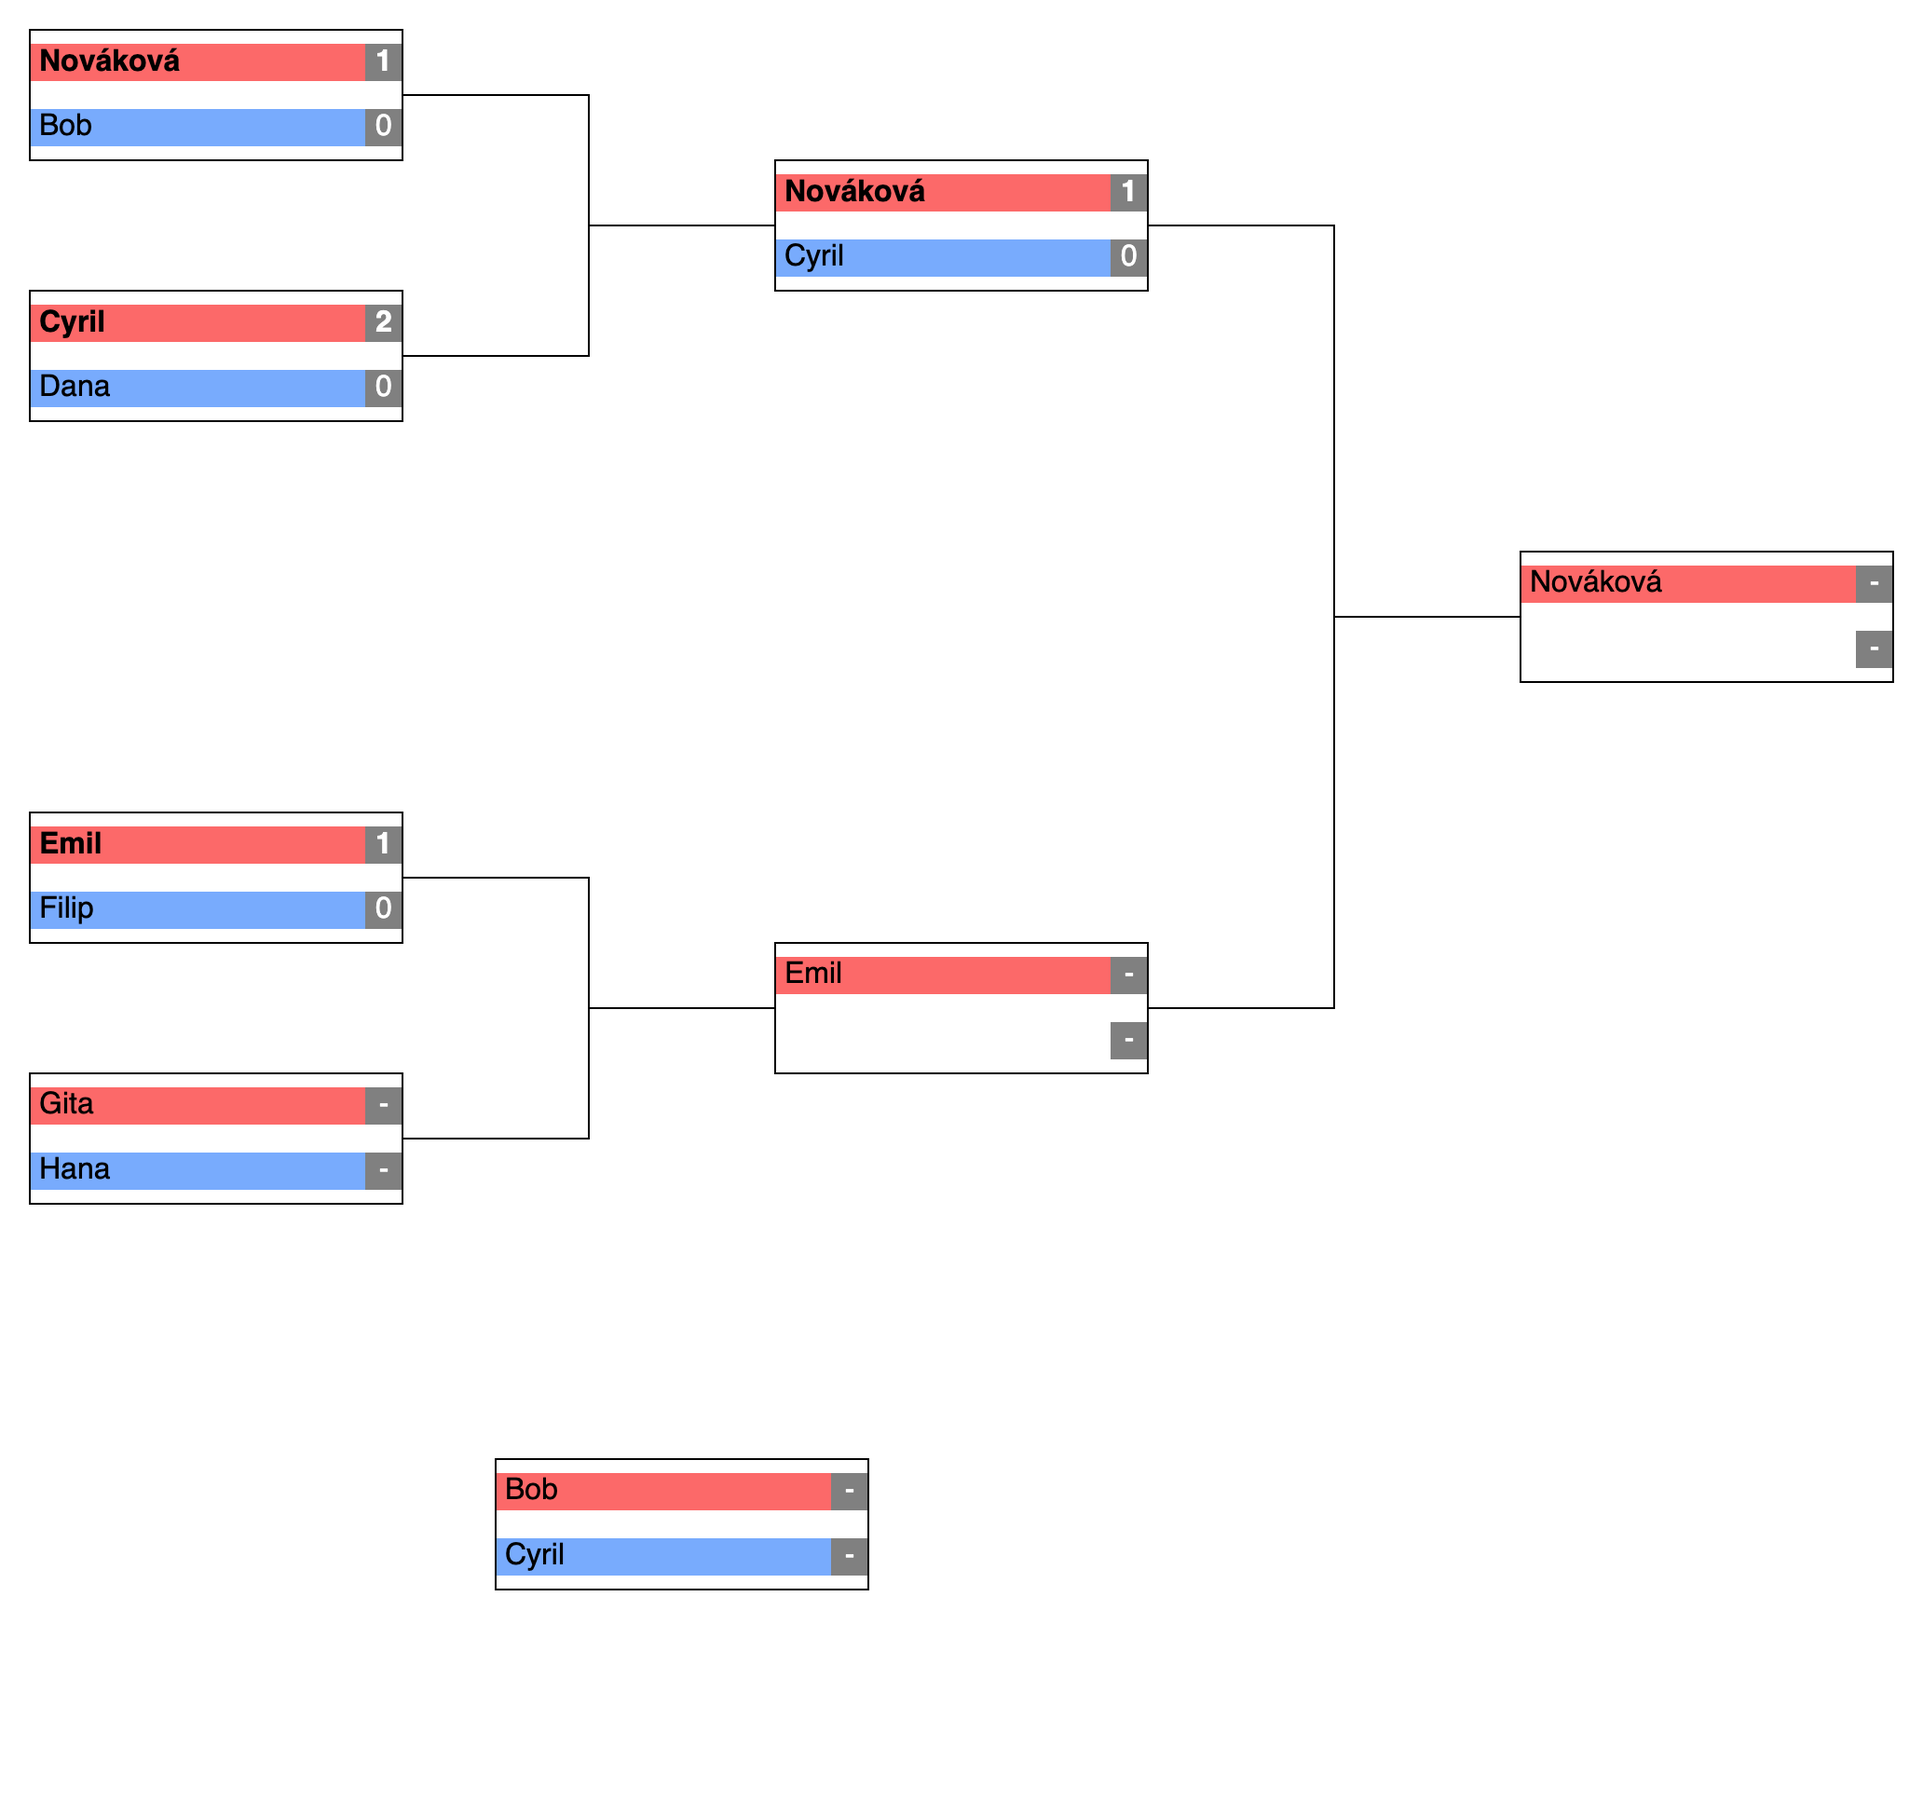
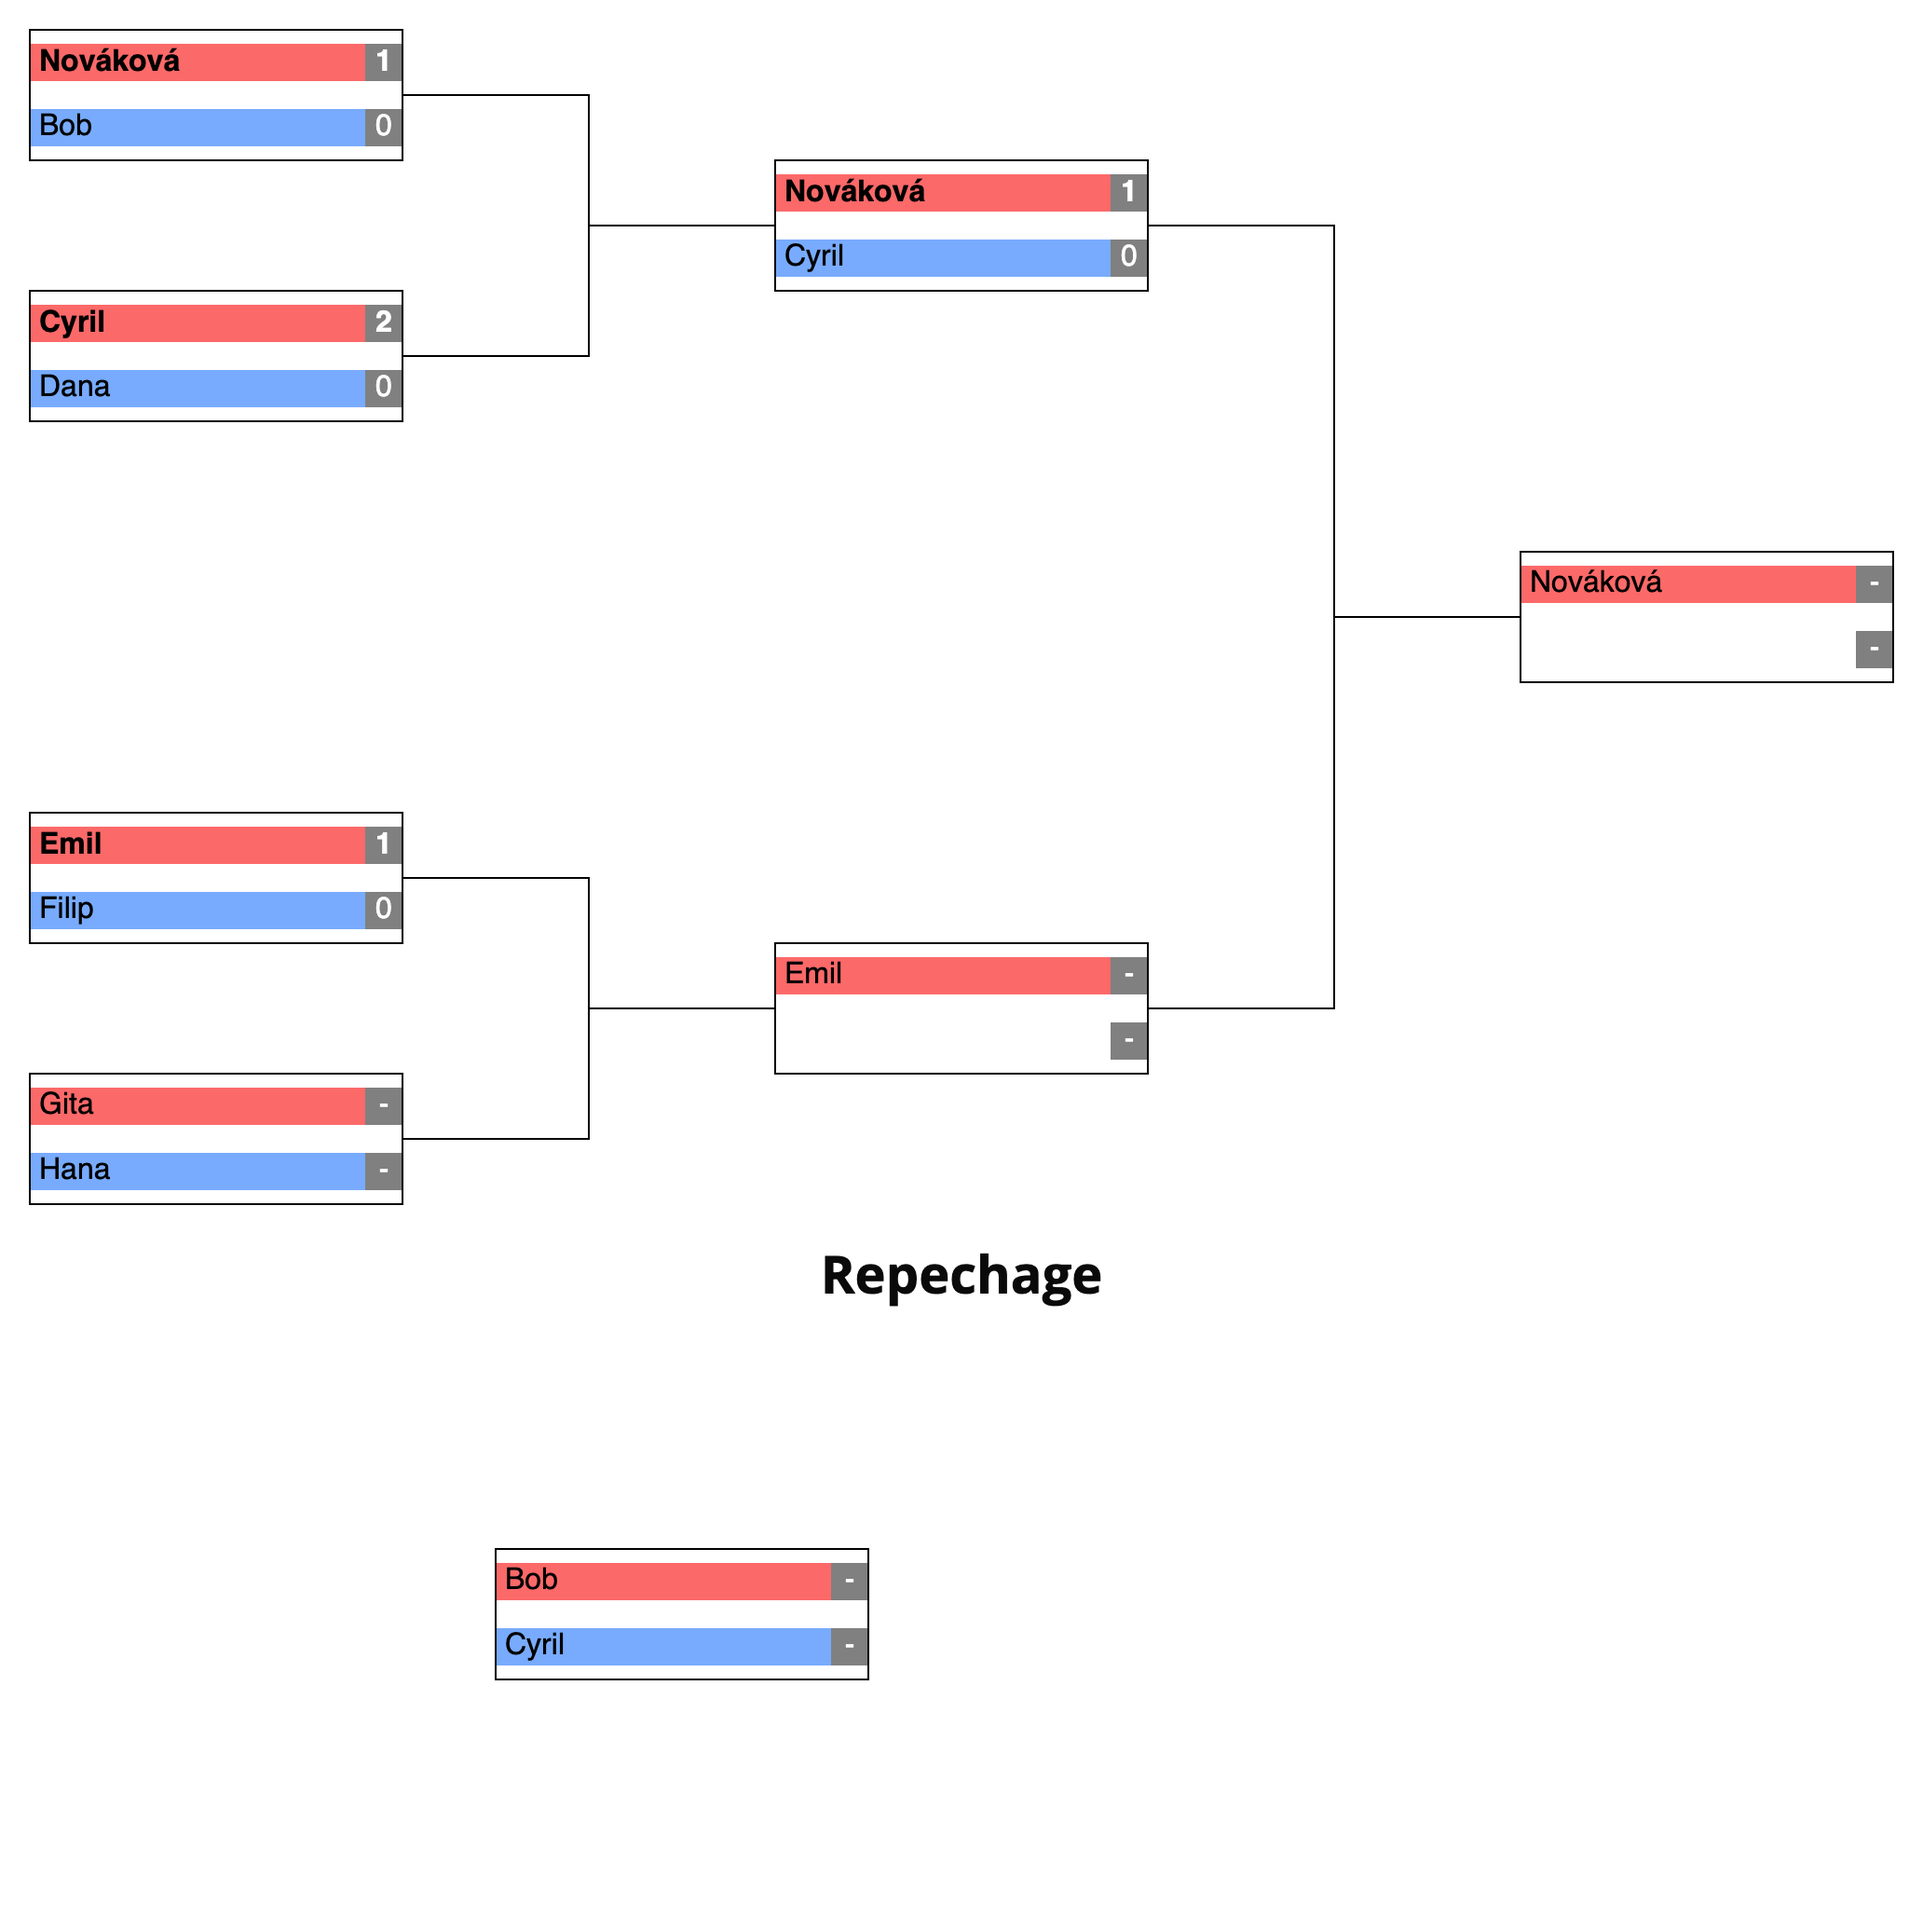
Put the repechage heading in the picture too
The screen carries an `<h2>` over the repechage and the picture did not, which
left the two brackets stacked with nothing to say why there were two of them.

svgsToPngBlob now takes blocks - something drawn, and optionally what that part
is called - rather than bare svgs. The stacking arithmetic moves into stackBlocks,
a pure function, so how much room a heading takes and where each block then
starts can be checked without a canvas; only the text drawing needs a browser.
The main tree gets no heading, because it has none on screen either.

The browser test compares the same bracket with and without a heading: taller,
the same width, and something actually drawn in the strip that appeared. Three
mutations - not drawing the text, drawing it over the bracket instead of above
it, and not reserving the room - each fail on that one test.

diff --git a/src/logic/download/svgPicture.ts b/src/logic/download/svgPicture.ts
@@ -1,4 +1,4 @@
-import { Box, padBox, PICTURE_PADDING, pictureScale } from './picture'
+import { Box, padBox, PICTURE_PADDING, pictureScale, stackBlocks } from './picture'
 
 
 /**
@@ -104,30 +104,45 @@ const toBlob = (canvas: HTMLCanvasElement): Promise<Blob | null> => {
   return new Promise((resolve) => canvas.toBlob(resolve, 'image/png'))
 }
 
+/** Matches the `<h2>` the screen puts over the repechage. */
+const HEADING_HEIGHT = 48
+const HEADING_FONT = 'bold 28px "Open Sans", sans-serif'
+const HEADING_COLOUR = '#0a0a0a'
+
+/** One part of the picture: something drawn, and optionally what to call it. */
+export type PictureBlock = { svg: SVGSVGElement, heading?: string }
+
 /**
  * Several svgs stacked into one picture - a bracket has its repechage drawn
- * below it, and the picture keeps them together the way the screen does.
+ * below it, and the picture keeps them together the way the screen does,
+ * heading and all.
  *
  * The background is painted rather than left transparent, and it is painted
  * light whatever theme the app is in: the picture leaves for a chat, a print or
  * a file preview, and none of those inherit a dark theme. Left transparent, the
  * black text would land on whatever the viewer happens to use.
  */
-export const svgsToPngBlob = async (svgs: SVGSVGElement[], background: string): Promise<Blob | null> => {
-  const rendered = (await Promise.all(svgs.map(renderSvg))).filter((one) => one !== null)
+export const svgsToPngBlob = async (blocks: PictureBlock[], background: string): Promise<Blob | null> => {
+  const rendered = (await Promise.all(blocks.map(async (block) => {
+    const image = await renderSvg(block.svg)
+
+    return image === null ? null : { ...image, heading: block.heading }
+  }))).filter((one) => one !== null)
 
   if (rendered.length === 0) {
     return null
   }
 
-  const width = Math.max(...rendered.map((one) => one.width))
-  const height = rendered.reduce((total, one) => total + one.height, 0)
-  const scale = pictureScale(width, height)
+  const layout = stackBlocks(
+    rendered.map((one) => ({ width: one.width, height: one.height, heading: one.heading !== undefined })),
+    HEADING_HEIGHT,
+  )
+  const scale = pictureScale(layout.width, layout.height)
 
   const canvas = document.createElement('canvas')
 
-  canvas.width = Math.round(width * scale)
-  canvas.height = Math.round(height * scale)
+  canvas.width = Math.round(layout.width * scale)
+  canvas.height = Math.round(layout.height * scale)
 
   const context = canvas.getContext('2d')
 
@@ -137,14 +152,22 @@ export const svgsToPngBlob = async (svgs: SVGSVGElement[], background: string): 
 
   context.fillStyle = background
   context.fillRect(0, 0, canvas.width, canvas.height)
+  context.scale(scale, scale)
 
-  let top = 0
-  rendered.forEach((one) => {
+  rendered.forEach((one, index) => {
+    const top = layout.tops[index]
     // centred, so a narrow repechage sits under the middle of the bracket
-    const left = (width - one.width) / 2
+    const left = (layout.width - one.width) / 2
 
-    context.drawImage(one.image, left * scale, top * scale, one.width * scale, one.height * scale)
-    top += one.height
+    if (one.heading !== undefined) {
+      context.font = HEADING_FONT
+      context.fillStyle = HEADING_COLOUR
+      context.textAlign = 'center'
+      context.textBaseline = 'middle'
+      context.fillText(one.heading, layout.width / 2, top - HEADING_HEIGHT / 2)
+    }
+
+    context.drawImage(one.image, left, top, one.width, one.height)
   })
 
   return toBlob(canvas)

diff --git a/src/components/kumiteTimer/tournamentScreen/TournamentScreen.tsx b/src/components/kumiteTimer/tournamentScreen/TournamentScreen.tsx
@@ -3,6 +3,7 @@ import { useNavigate } from 'react-router-dom'
 import './TournamentScreen.scss'
 import { useSelector } from '../../../redux/useSelector'
 import { selectTranslation } from '../../../redux/page/selector'
+import { Translation } from '../../../logic/translation/translation'
 import {
   selectKumiteTimerRepechageTree,
   selectKumiteTimerTournamentGroup,
@@ -21,10 +22,27 @@ import {
 } from '../../../logic/tournament/csv'
 import { exportFile, willShareFile } from '../../../logic/download/exportFile'
 import { CSV_MIME_TYPE } from '../../../utils/csv'
-import { svgsToPngBlob } from '../../../logic/download/svgPicture'
+import { PictureBlock, svgsToPngBlob } from '../../../logic/download/svgPicture'
 import { groupPictureBlob } from '../../../logic/tournament/groupPicture'
 import { PICTURE_BACKGROUND, PNG_MIME_TYPE, tournamentPictureFileName } from '../../../logic/download/picture'
 
+
+/**
+ * The parts of a bracket to put in the picture, labelled the way the screen
+ * labels them - the repechage carries an `<h2>` there, so it carries a heading
+ * here. The main tree has none on screen and gets none in the picture.
+ */
+const treePictureBlocks = (translation: Translation): PictureBlock[] => {
+  const tree = document.querySelector<SVGSVGElement>('.tree-wrapper svg')
+  const repechage = document.querySelector<SVGSVGElement>('.repechage-wrapper svg')
+
+  return [
+    ...(tree === null ? [] : [{ svg: tree }]),
+    ...(repechage === null
+      ? []
+      : [{ svg: repechage, heading: translation.kumiteTimer.setUpScreen.tournament.repechage }]),
+  ]
+}
 
 export const TournamentScreen = (): JSX.Element => {
   const translation = useSelector(selectTranslation)
@@ -83,10 +101,7 @@ export const TournamentScreen = (): JSX.Element => {
     const source: TournamentSource = { name: tournamentName, type: tournamentType, group, tree, repechage }
 
     const blob = tournamentType === 'TREE'
-      ? svgsToPngBlob(
-        Array.from(document.querySelectorAll<SVGSVGElement>('.tree-wrapper svg, .repechage-wrapper svg')),
-        PICTURE_BACKGROUND,
-      )
+      ? svgsToPngBlob(treePictureBlocks(translation), PICTURE_BACKGROUND)
       : groupPictureBlob(groupOverviewRows(source, translation), PICTURE_BACKGROUND)
 
     void blob.then((content) => {

diff --git a/src/logic/download/tests/picture.test.ts b/src/logic/download/tests/picture.test.ts
@@ -1,4 +1,4 @@
-import { padBox, PICTURE_MAX_SCALE, PICTURE_PIXEL_BUDGET, pictureScale } from '../picture'
+import { padBox, PICTURE_MAX_SCALE, PICTURE_PIXEL_BUDGET, pictureScale, stackBlocks } from '../picture'
 
 
 describe('pictureScale', () => {
@@ -41,6 +41,45 @@ describe('pictureScale', () => {
   test('has an answer for a tournament with nothing in it', () => {
     // act & assert - no content means no reason to shrink anything
     expect(pictureScale(0, 0)).toBe(PICTURE_MAX_SCALE)
+  })
+})
+
+describe('stackBlocks', () => {
+  test('puts one block under another and is as wide as the widest', () => {
+    // arrange
+    const items = [
+      { width: 600, height: 200, heading: false },
+      { width: 300, height: 100, heading: false },
+    ]
+    // act
+    const layout = stackBlocks(items, 44)
+    // assert
+    expect(layout).toEqual({ width: 600, height: 300, tops: [0, 200] })
+  })
+
+  test('leaves room above a block that is labelled', () => {
+    // arrange - the repechage is the labelled one, as on screen
+    const items = [
+      { width: 600, height: 200, heading: false },
+      { width: 300, height: 100, heading: true },
+    ]
+    // act
+    const layout = stackBlocks(items, 44)
+    // assert - the second block starts below its heading, and the picture grew by it
+    expect(layout.tops).toEqual([0, 244])
+    expect(layout.height).toBe(344)
+  })
+
+  test('counts a heading on the first block too', () => {
+    // act
+    const layout = stackBlocks([{ width: 100, height: 50, heading: true }], 44)
+    // assert
+    expect(layout).toEqual({ width: 100, height: 94, tops: [44] })
+  })
+
+  test('has an answer for a picture with no blocks', () => {
+    // act & assert
+    expect(stackBlocks([], 44)).toEqual({ width: 0, height: 0, tops: [] })
   })
 })
 

diff --git a/src/logic/download/picture.ts b/src/logic/download/picture.ts
@@ -69,6 +69,31 @@ export const pictureScale = (
 
 export type Box = { x: number, y: number, width: number, height: number }
 
+export type StackItem = { width: number, height: number, heading: boolean }
+
+export type StackedLayout = { width: number, height: number, tops: number[] }
+
+/**
+ * Where each part of a picture goes when they are stacked one under the other.
+ *
+ * A part that is labelled - the repechage, which the screen puts a heading over -
+ * is pushed down to leave room for it, and `tops` is where the drawing starts
+ * rather than where the block starts, so the caller does not have to subtract the
+ * heading back out again.
+ */
+export const stackBlocks = (items: StackItem[], headingHeight: number): StackedLayout => {
+  const tops: number[] = []
+  let height = 0
+
+  items.forEach((item) => {
+    height += item.heading ? headingHeight : 0
+    tops.push(height)
+    height += item.height
+  })
+
+  return { width: Math.max(0, ...items.map((item) => item.width)), height, tops }
+}
+
 /** The same box with room left around it on every side. */
 export const padBox = (box: Box, padding: number): Box => ({
   x: box.x - padding,

diff --git a/tickets/005-tournament-picture.md b/tickets/005-tournament-picture.md
@@ -299,3 +299,25 @@ Ověřený mutací zpět na původní tvar — padá právě on. Sada je 206 uni
 **Poučení do příště:** analýza tohle nezachytila, protože všechna měření při psaní `C`
 proběhla na čerstvě otevřené obrazovce, kde je zoom vždycky `scale(1)`. Měřit stav,
 do kterého se uživatel dostane až gestem, chce ten stav napřed vyrobit.
+
+### 2026-08-17 — nadpis nad repasáží
+
+Z ruční zkoušky: obrázek neměl nadpis „Repasáž", který obrazovka nad tou částí má
+(`TreeTournamentScreen.tsx:74`, `<h2>`). Obrázek má být tím, co obrazovka ukazuje, takže
+tam patří.
+
+`svgsToPngBlob` teď nebere `SVGSVGElement[]`, ale `PictureBlock[]` — kreslený obsah plus
+volitelně, jak se ta část jmenuje. Skládání dostalo čistou funkci `stackBlocks`, takže
+aritmetika (kolik místa nadpis ubere a kde který blok začne) jde otestovat bez plátna.
+Hlavní strom nadpis nedostává, protože ho nemá ani na obrazovce.
+
+Testy: čtyři unit testy na `stackBlocks` a browser test, který porovná obrázek s nadpisem
+a bez něj — musí být vyšší, stejně široký, a v tom přibylém pruhu musí něco být. Ověřeno
+třemi mutacemi (nekreslit text, nakreslit ho přes pavouka, nerezervovat místo), všechny tři
+padly právě na něm. Sada je 210 unit a 88 browser testů.
+
+**Zbývá nedořešené:** repasáž má v obrázku kolem sebe hodně prázdna. Změřeno — její
+`getBBox()` je 500×280, ale samotný zápas zabírá kolem 200×70. Nafukuje ji neviditelný
+`rect` s třídou `repechage-root` (`TreeNode.tsx:35`), který slouží jako rozvržení a cíl
+kliknutí, ale do bboxu se počítá. Do obrázku by se dal vynechat; zatím jsem to nechal, je
+to nad rámec zadání.
